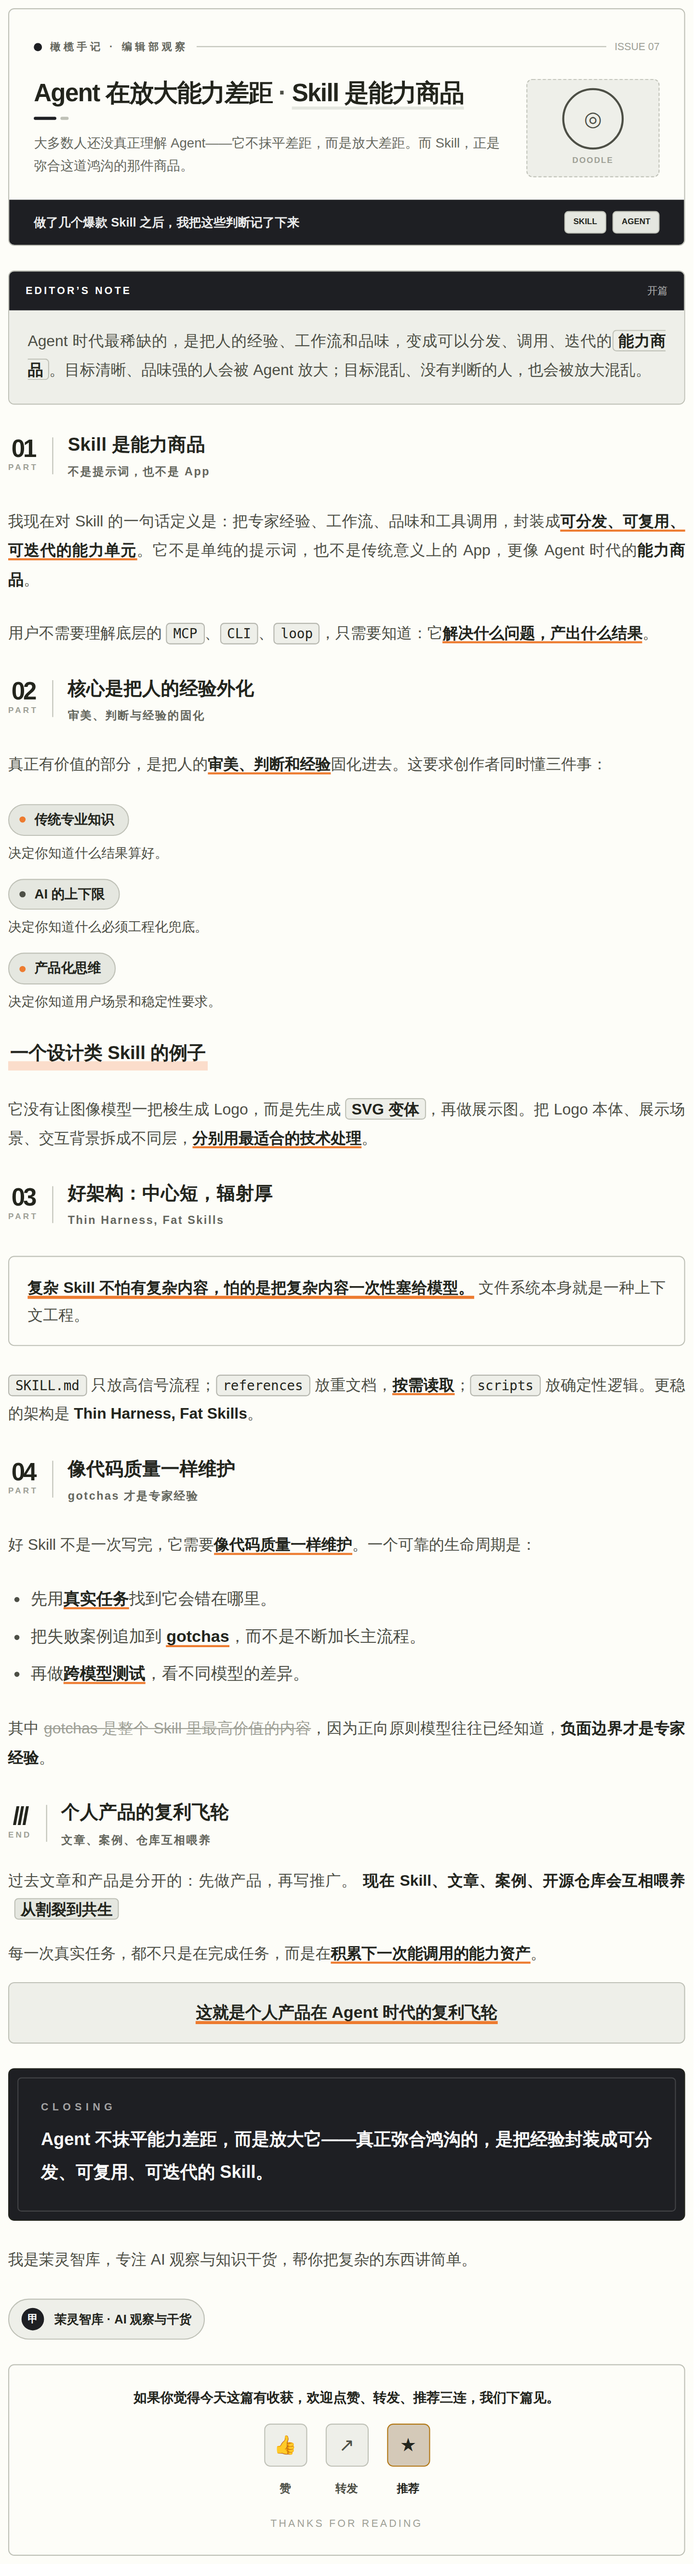
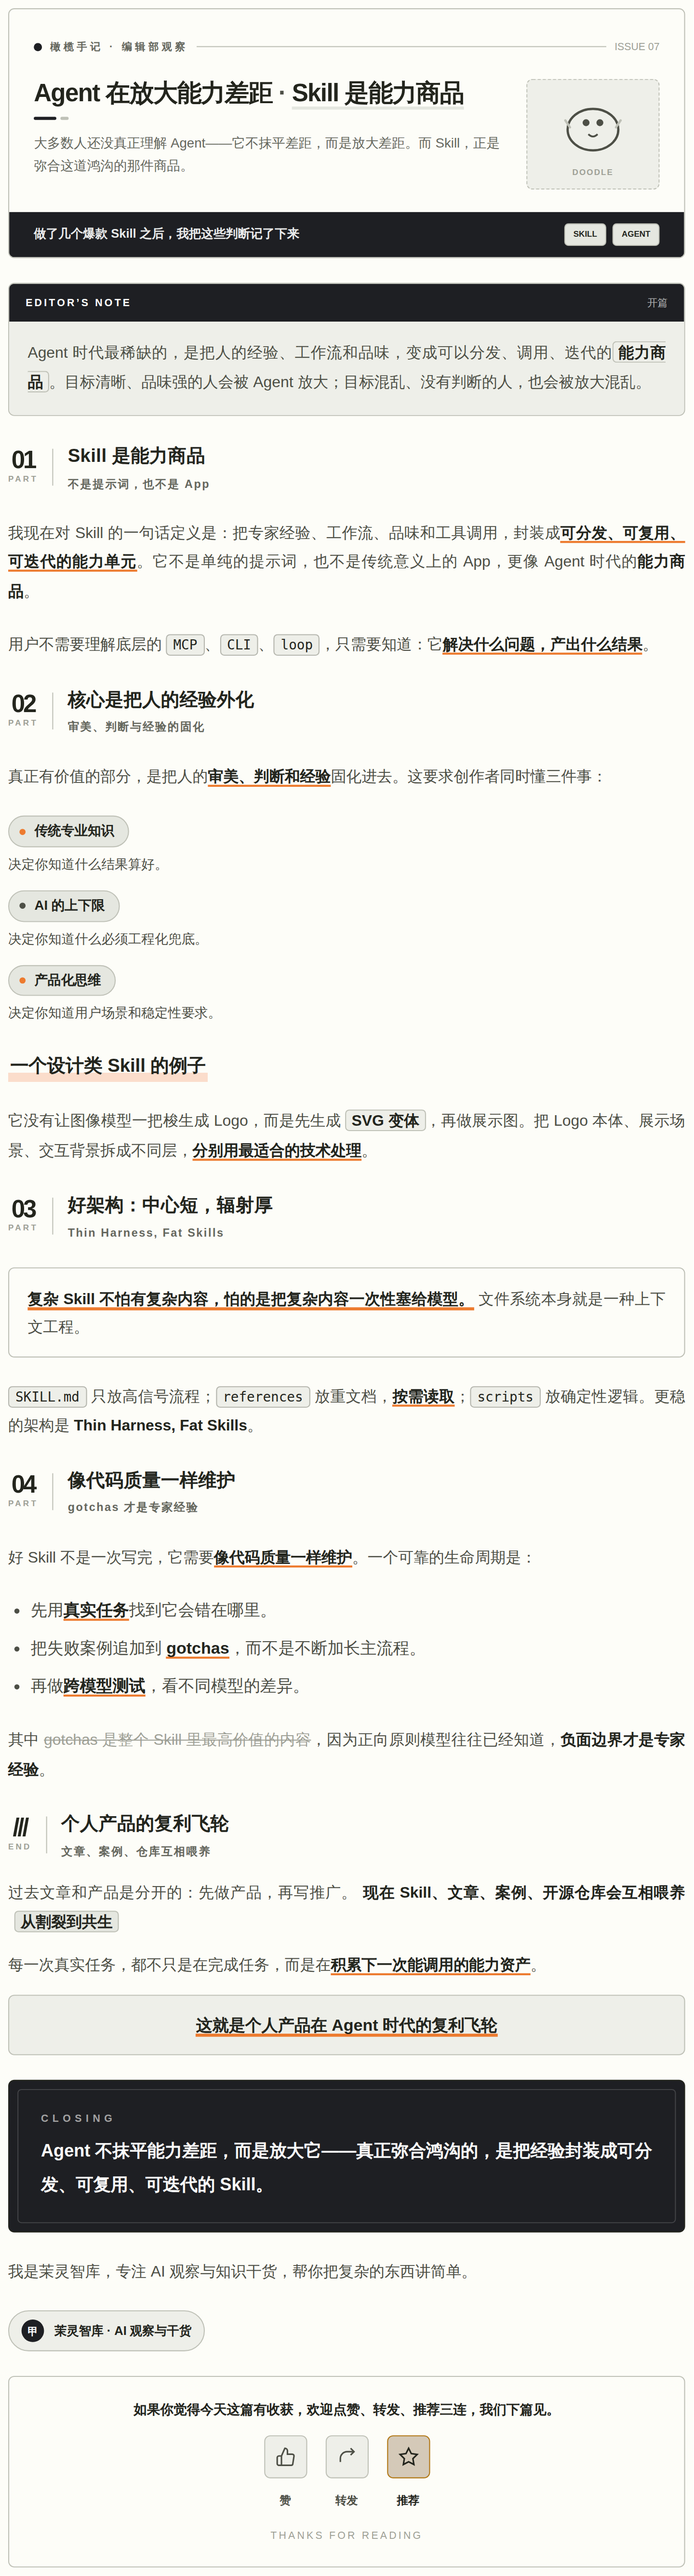
revert: 预览页恢复 SVG 图标（olive/moyu-green/moyu-ticket/tech-cobalt）——SVG 只在浏览器预览渲染更好看；组件库仍保持文本字形（正文粘贴安全）；lint 对 docs/gallery 产物豁免 SVG 检查并降级 WARN 提示

diff --git a/docs/gallery/olive-journal.html b/docs/gallery/olive-journal.html
@@ -20,7 +20,13 @@
           <p style="font-size:13px;color:#65675e;margin:0;line-height:1.7;"><span leaf="">大多数人还没真正理解 Agent——它不抹平差距，而是放大差距。而 Skill，正是弥合这道鸿沟的那件商品。</span></p>
         </section>
         <section style="flex-shrink:0;width:112px;display:flex;flex-direction:column;align-items:center;justify-content:center;background:#eeefe9;border:1px dashed #bfc1b7;border-radius:6px;padding:8px;">
-          <section style="width:56px;height:56px;border:2px solid #4d4f46;border-radius:50%;margin:0 auto;display:flex;align-items:center;justify-content:center;"><span style="font-size:20px;line-height:1;color:#4d4f46;"><span leaf="">◎</span></span></section>
+          <svg width="72" height="72" viewBox="0 0 64 64" aria-hidden="true" style="display:block;">
+            <ellipse cx="32" cy="36" rx="22" ry="18" fill="none" stroke="#4d4f46" stroke-width="2"></ellipse>
+            <circle cx="26" cy="30" r="3" fill="#4d4f46"></circle>
+            <circle cx="38" cy="30" r="3" fill="#4d4f46"></circle>
+            <path d="M28 40 Q32 44 36 40" fill="none" stroke="#4d4f46" stroke-width="1.5"></path>
+            <path d="M12 34 L8 28 M52 34 L56 28" stroke="#bfc1b7" stroke-width="2" stroke-linecap="round"></path>
+          </svg>
           <span style="font-size:8px;font-weight:700;color:#9ea096;letter-spacing:1px;margin-top:4px;"><span leaf="">DOODLE</span></span>
         </section>
       </section>
@@ -280,19 +286,19 @@
       <section style="display:flex;justify-content:center;gap:18px;margin-bottom:14px;flex-wrap:wrap;">
         <section style="text-align:center;color:#4d4f46;">
           <section style="width:40px;height:40px;display:flex;align-items:center;justify-content:center;margin:0 auto 6px;background:#eeefe9;border-radius:6px;border:1px solid #bfc1b7;">
-            <span style="font-size:18px;line-height:1;"><span leaf="">👍</span></span>
+            <svg width="20" height="20" viewBox="0 0 24 24" fill="none" stroke="currentColor" stroke-width="1.8" aria-hidden="true"><path d="M14 9V5a3 3 0 0 0-3-3l-4 9v11h11.28a2 2 0 0 0 2-1.7l1.38-9a2 2 0 0 0-2-2.3zM7 22H4a2 2 0 0 1-2-2v-7a2 2 0 0 1 2-2h3"></path></svg>
           </section>
           <span style="font-size:11px;font-weight:600;"><span leaf="">赞</span></span>
         </section>
         <section style="text-align:center;color:#4d4f46;">
           <section style="width:40px;height:40px;display:flex;align-items:center;justify-content:center;margin:0 auto 6px;background:#eeefe9;border-radius:6px;border:1px solid #bfc1b7;">
-            <span style="font-size:18px;line-height:1;"><span leaf="">↗</span></span>
+            <svg width="20" height="20" viewBox="0 0 24 24" fill="none" stroke="currentColor" stroke-width="1.8" aria-hidden="true"><path d="M4 18v-4a8 8 0 0 1 8-8h8"></path><polyline points="16 2 20 6 16 10"></polyline></svg>
           </section>
           <span style="font-size:11px;font-weight:600;"><span leaf="">转发</span></span>
         </section>
         <section style="text-align:center;color:#23251d;">
           <section style="width:40px;height:40px;display:flex;align-items:center;justify-content:center;margin:0 auto 6px;background:#d4c9b8;border-radius:6px;border:1px solid #b17816;">
-            <span style="font-size:18px;line-height:1;"><span leaf="">★</span></span>
+            <svg width="20" height="20" viewBox="0 0 24 24" fill="none" stroke="#23251d" stroke-width="1.8" aria-hidden="true"><polygon points="12 2 15.09 8.26 22 9.27 17 14.14 18.18 21.02 12 17.77 5.82 21.02 7 14.14 2 9.27 8.91 8.26 12 2"></polygon></svg>
           </section>
           <span style="font-size:11px;font-weight:700;"><span leaf="">推荐</span></span>
         </section>

diff --git a/docs/gallery/moyu-green.html b/docs/gallery/moyu-green.html
@@ -268,19 +268,19 @@
       <section style="display:flex;justify-content:center;gap:24px;margin-bottom:16px;">
         <section style="text-align:center;cursor:pointer;color:#4B5563;">
           <section style="width:40px;height:40px;display:flex;align-items:center;justify-content:center;margin:0 auto 6px;background:#fff;border-radius:12px;box-shadow:0 2px 4px rgba(0,0,0,0.05);border:1px solid #F3F4F6;">
-            <span style="font-size:18px;line-height:1;"><span leaf="">👍</span></span>
+            <svg width="20" height="20" viewBox="0 0 24 24" fill="none" stroke="currentColor" stroke-width="1.8"><path d="M14 9V5a3 3 0 0 0-3-3l-4 9v11h11.28a2 2 0 0 0 2-1.7l1.38-9a2 2 0 0 0-2-2.3zM7 22H4a2 2 0 0 1-2-2v-7a2 2 0 0 1 2-2h3"></path></svg>
           </section>
           <span style="font-size:10px;font-weight:600;"><span leaf="">点赞</span></span>
         </section>
         <section style="text-align:center;cursor:pointer;color:#4B5563;">
           <section style="width:40px;height:40px;display:flex;align-items:center;justify-content:center;margin:0 auto 6px;background:#fff;border-radius:12px;box-shadow:0 2px 4px rgba(0,0,0,0.05);border:1px solid #F3F4F6;">
-            <span style="font-size:18px;line-height:1;"><span leaf="">↗</span></span>
+            <svg width="20" height="20" viewBox="0 0 24 24" fill="none" stroke="currentColor" stroke-width="1.8" stroke-linecap="round" stroke-linejoin="round"><path d="M4 18v-4a8 8 0 0 1 8-8h8"></path><polyline points="16 2 20 6 16 10"></polyline></svg>
           </section>
           <span style="font-size:10px;font-weight:600;"><span leaf="">转发</span></span>
         </section>
         <section style="text-align:center;cursor:pointer;color:#059669;">
           <section style="width:40px;height:40px;display:flex;align-items:center;justify-content:center;margin:0 auto 6px;background:#ECFDF5;border-radius:12px;box-shadow:0 2px 4px rgba(5,150,105,0.15);border:1px solid #A7F3D0;">
-            <span style="font-size:18px;line-height:1;"><span leaf="">★</span></span>
+            <svg width="20" height="20" viewBox="0 0 24 24" fill="none" stroke="currentColor" stroke-width="1.8"><polygon points="12 2 15.09 8.26 22 9.27 17 14.14 18.18 21.02 12 17.77 5.82 21.02 7 14.14 2 9.27 8.91 8.26 12 2"></polygon></svg>
           </section>
           <span style="font-size:10px;font-weight:600;"><span leaf="">推荐</span></span>
         </section>

diff --git a/docs/gallery/tech-cobalt.html b/docs/gallery/tech-cobalt.html
@@ -268,19 +268,19 @@
       <section style="display:flex;justify-content:center;gap:24px;margin-bottom:16px;">
         <section style="text-align:center;cursor:pointer;color:#4B5563;">
           <section style="width:40px;height:40px;display:flex;align-items:center;justify-content:center;margin:0 auto 6px;background:#fff;border-radius:12px;box-shadow:0 2px 4px rgba(0,0,0,0.05);border:1px solid #F3F4F6;">
-            <span style="font-size:18px;line-height:1;"><span leaf="">👍</span></span>
+            <svg width="20" height="20" viewBox="0 0 24 24" fill="none" stroke="currentColor" stroke-width="1.8"><path d="M14 9V5a3 3 0 0 0-3-3l-4 9v11h11.28a2 2 0 0 0 2-1.7l1.38-9a2 2 0 0 0-2-2.3zM7 22H4a2 2 0 0 1-2-2v-7a2 2 0 0 1 2-2h3"></path></svg>
           </section>
           <span style="font-size:10px;font-weight:600;"><span leaf="">点赞</span></span>
         </section>
         <section style="text-align:center;cursor:pointer;color:#4B5563;">
           <section style="width:40px;height:40px;display:flex;align-items:center;justify-content:center;margin:0 auto 6px;background:#fff;border-radius:12px;box-shadow:0 2px 4px rgba(0,0,0,0.05);border:1px solid #F3F4F6;">
-            <span style="font-size:18px;line-height:1;"><span leaf="">↗</span></span>
+            <svg width="20" height="20" viewBox="0 0 24 24" fill="none" stroke="currentColor" stroke-width="1.8" stroke-linecap="round" stroke-linejoin="round"><path d="M4 18v-4a8 8 0 0 1 8-8h8"></path><polyline points="16 2 20 6 16 10"></polyline></svg>
           </section>
           <span style="font-size:10px;font-weight:600;"><span leaf="">转发</span></span>
         </section>
         <section style="text-align:center;cursor:pointer;color:#1D4ED8;">
           <section style="width:40px;height:40px;display:flex;align-items:center;justify-content:center;margin:0 auto 6px;background:#EFF6FF;border-radius:12px;box-shadow:0 2px 4px rgba(29,78,216,0.15);border:1px solid #93C5FD;">
-            <span style="font-size:18px;line-height:1;"><span leaf="">★</span></span>
+            <svg width="20" height="20" viewBox="0 0 24 24" fill="none" stroke="currentColor" stroke-width="1.8"><polygon points="12 2 15.09 8.26 22 9.27 17 14.14 18.18 21.02 12 17.77 5.82 21.02 7 14.14 2 9.27 8.91 8.26 12 2"></polygon></svg>
           </section>
           <span style="font-size:10px;font-weight:600;"><span leaf="">推荐</span></span>
         </section>

diff --git a/docs/gallery/moyu-ticket.html b/docs/gallery/moyu-ticket.html
@@ -244,19 +244,19 @@
       <section style="display:flex;justify-content:center;gap:24px;margin-bottom:16px;">
         <section style="text-align:center;color:#555;">
           <section style="width:40px;height:40px;display:flex;align-items:center;justify-content:center;margin:0 auto 6px;background:#fff;border:1px solid #1a1a1a;">
-            <span style="font-size:18px;line-height:1;"><span leaf="">👍</span></span>
+            <svg width="18" height="18" viewBox="0 0 24 24" fill="none" stroke="currentColor" stroke-width="1.8"><path d="M14 9V5a3 3 0 0 0-3-3l-4 9v11h11.28a2 2 0 0 0 2-1.7l1.38-9a2 2 0 0 0-2-2.3zM7 22H4a2 2 0 0 1-2-2v-7a2 2 0 0 1 2-2h3"></path></svg>
           </section>
           <span style="font-size:10px;font-weight:600;"><span leaf="">点赞</span></span>
         </section>
         <section style="text-align:center;color:#555;">
           <section style="width:40px;height:40px;display:flex;align-items:center;justify-content:center;margin:0 auto 6px;background:#fff;border:1px solid #1a1a1a;">
-            <span style="font-size:18px;line-height:1;"><span leaf="">↗</span></span>
+            <svg width="18" height="18" viewBox="0 0 24 24" fill="none" stroke="currentColor" stroke-width="1.8"><path d="M4 18v-4a8 8 0 0 1 8-8h8"></path><polyline points="16 2 20 6 16 10"></polyline></svg>
           </section>
           <span style="font-size:10px;font-weight:600;"><span leaf="">转发</span></span>
         </section>
         <section style="text-align:center;color:#059669;">
           <section style="width:40px;height:40px;display:flex;align-items:center;justify-content:center;margin:0 auto 6px;background:#F0FDF4;border:2px solid #059669;">
-            <span style="font-size:18px;line-height:1;"><span leaf="">★</span></span>
+            <svg width="18" height="18" viewBox="0 0 24 24" fill="none" stroke="currentColor" stroke-width="1.8"><polygon points="12 2 15.09 8.26 22 9.27 17 14.14 18.18 21.02 12 17.77 5.82 21.02 7 14.14 2 9.27 8.91 8.26 12 2"></polygon></svg>
           </section>
           <span style="font-size:10px;font-weight:600;"><span leaf="">推荐</span></span>
         </section>

diff --git a/scripts/component_lint.py b/scripts/component_lint.py
@@ -69,10 +69,18 @@ def lint_file(path):
     blocks = ([text] if path.lower().endswith(".html")
               else [m.group(1) for m in re.finditer(r"```html\s*\n(.*?)```", text, re.S)])
 
+    # docs/gallery 预览产物豁免 SVG 检查：预览页只在浏览器渲染（不粘贴进公众号），
+    # SVG 图标观感更好。组件库（references/*.md）仍然严禁 SVG——正文必须用文本字形。
+    in_gallery = os.sep + "docs" + os.sep + "gallery" + os.sep in path
+    checks = [c for c in CHECKS
+              if not (in_gallery and c[1] == "ERROR" and "SVG" in c[2])]
+
     for html in blocks:
-        for rx, level, msg in CHECKS:
+        for rx, level, msg in checks:
             if rx.search(html):
                 add(level, msg)
+    if in_gallery and re.search(r"<svg\b", text, re.I):
+        add("WARN", "预览页含内联 SVG——浏览器预览正常，但正文引用此组件时请改用文本字形（微信会剥 SVG）")
         # 漏 <span leaf=""> 包裹：粘贴后样式整片丢失，是最高频致命错。
         # 用真正的 HTML 解析器找"裸露的文本节点"，而不是正则匹配——
         # 否则注释里的中文、属性里的中文都会被误判。
